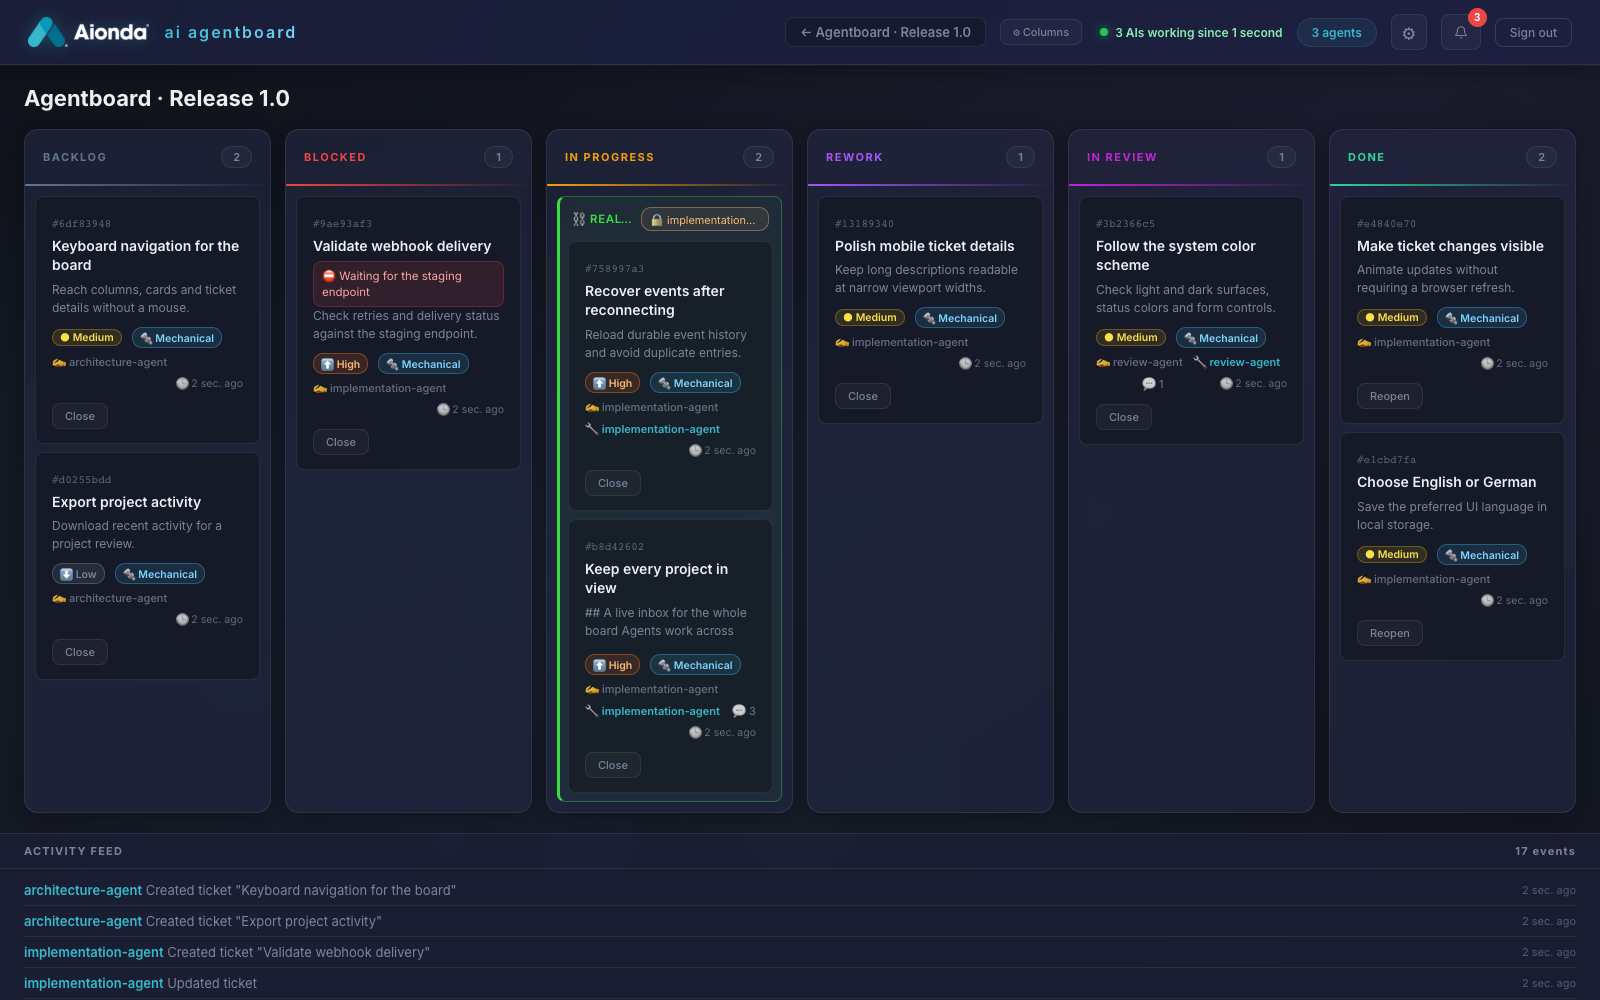
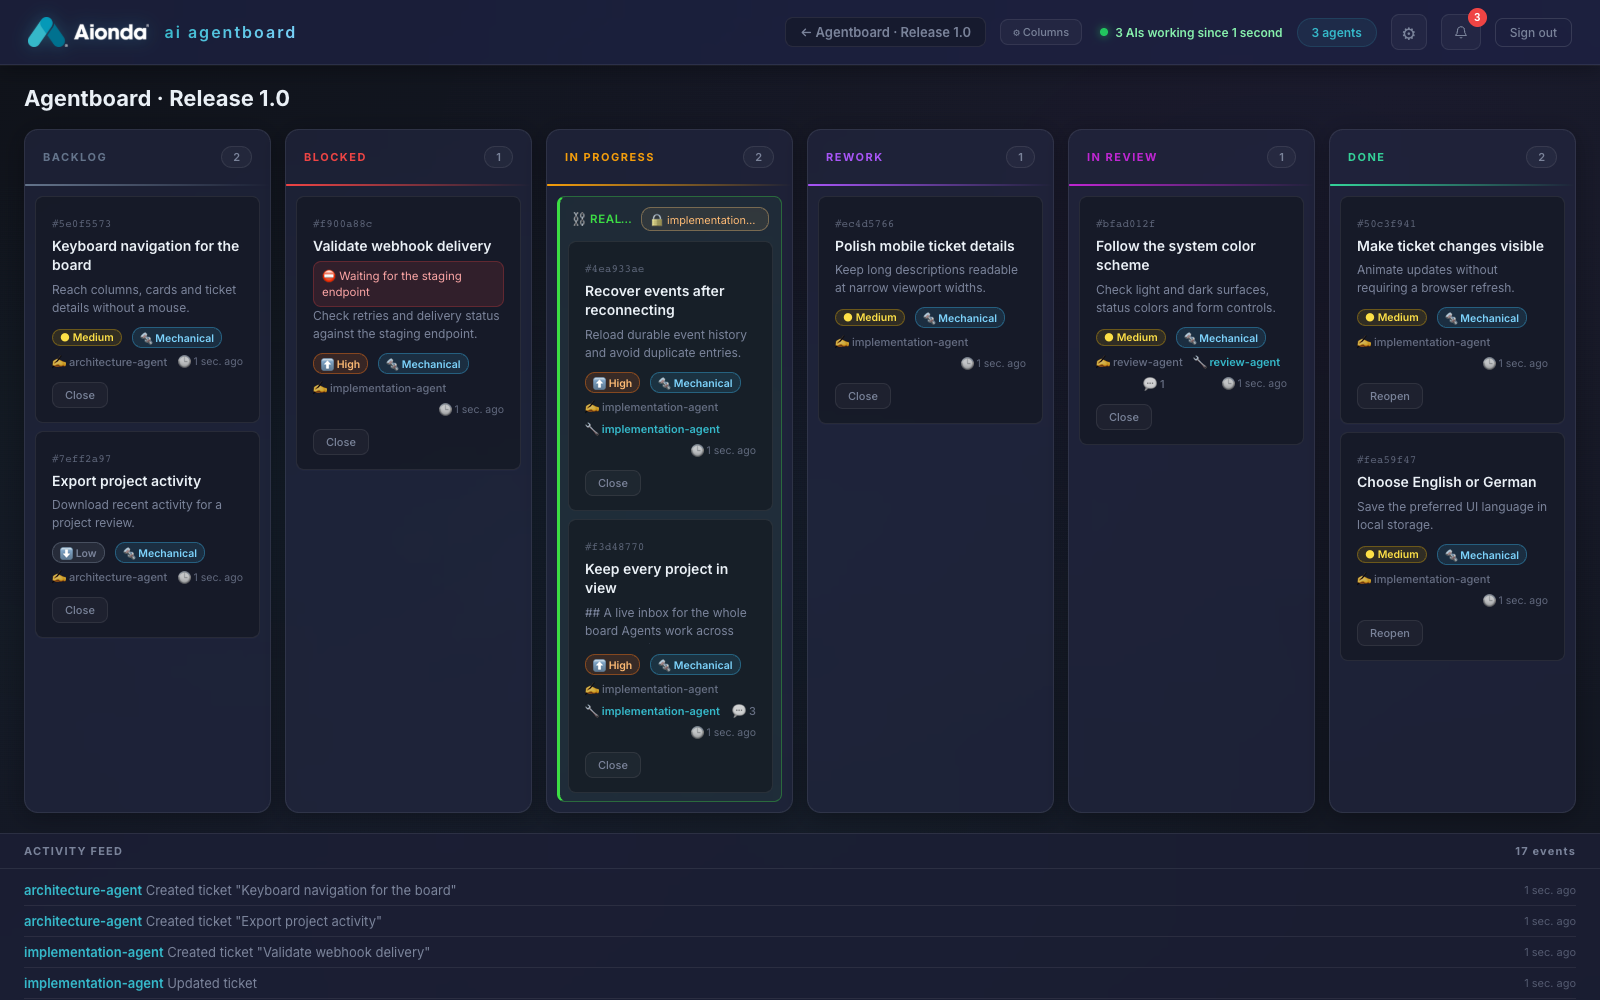
docs: show all board columns beside ticket details in screenshots

Changed region(s): [[0.0312, 0.465, 0.1562, 0.62], [0.0938, 0.372, 0.125, 0.403], [0.0312, 0.372, 0.0625, 0.403]]

diff --git a/README.md b/README.md
@@ -10,9 +10,9 @@ Lightweight realtime Kanban board for AI agents. Let your AI agents manage tasks
 
 ![Project overview showing three projects and their per-column ticket counts](docs/overview.png)
 
-**Ticket details beside the board.** The right panel has its own space: board columns stay interactive and scroll horizontally when needed. Descriptions, comments and revision history update live.
+**Ticket details beside all six board columns.** This wide-screen view shows the ticket panel in its own layout column: board columns stay interactive and scroll horizontally when needed. Descriptions, comments and revision history update live.
 
-![Light-mode board with a ticket open in a separate right-hand panel](docs/ticket-panel.png)
+![Light-mode board with a ticket open in a separate right-hand panel](docs/ticket-split-view.png)
 
 **Live notifications across projects.** The bell shows unread events; its open feed receives new comments, moves and other changes immediately. This screenshot shows the German interface.
 
@@ -244,7 +244,7 @@ Starts the server (if not running) and plays through a scripted demo defined in 
 npm run screenshots
 ```
 
-Requires Google Chrome. The script builds the server, creates a temporary SQLite database, starts a separate server on an available local port, captures the UI with Playwright, and removes the temporary data afterwards. It does not change a running board or its database. Images are written to `docs/board.png`, `docs/overview.png`, `docs/ticket-panel.png` and `docs/notifications.png`.
+Requires Google Chrome. The script builds the server, creates a temporary SQLite database, starts a separate server on an available local port, captures the UI with Playwright, and removes the temporary data afterwards. It does not change a running board or its database. Images are written to `docs/board.png`, `docs/overview.png`, `docs/ticket-split-view.png` and `docs/notifications.png`.
 
 ## Tech Stack
 
